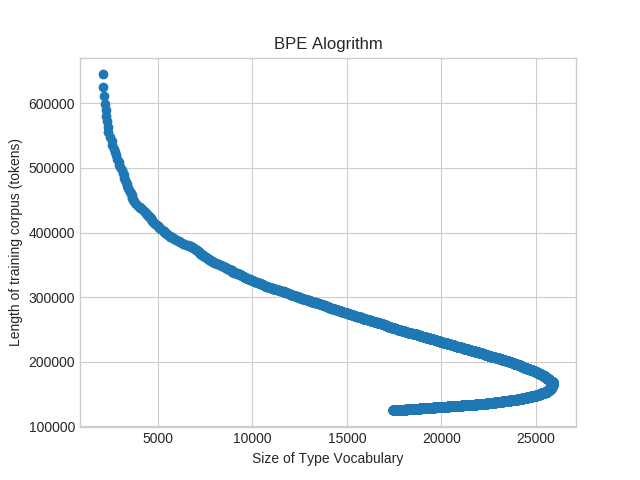
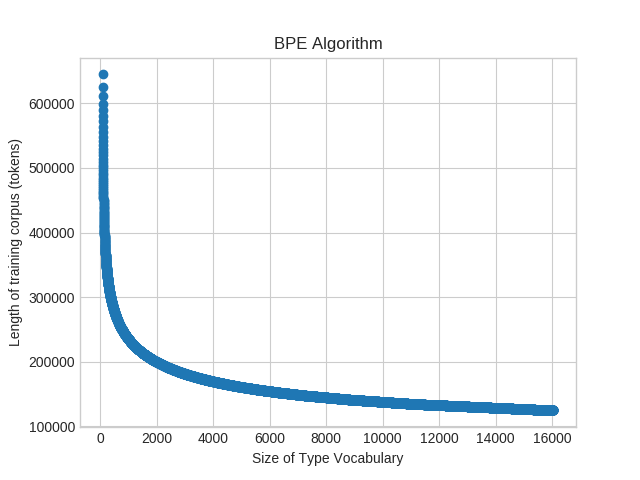
Corrected the types vocab length
- Output files updated

diff --git a/A5/byte_pair_encoding.py b/A5/byte_pair_encoding.py
@@ -6,6 +6,8 @@ from collections import Counter, defaultdict
 
 import matplotlib.pyplot as plt
 
+from pprint import pprint as pp
+
 plt.style.use('seaborn-whitegrid')
 
 SPACE_SYM = '<s>'
@@ -33,6 +35,7 @@ class BytePairEncoding:
 
         # Step 1: Append, to each word, a special <s> symbol marking the end of a word
         self.vocab, space_marked_sentences_list = self._add_word_space_symbols(sentences_list)
+        self.types_vocab = set()
     
 
     def _clean_sentences(self, sentences_list):
@@ -84,30 +87,35 @@ class BytePairEncoding:
     def _save_scatter_plot(self, descriptive_name, x, y):
 
         plt.scatter(x, y)
-        plt.title('BPE Alogrithm')
+        plt.title('BPE Algorithm')
         plt.xlabel('Size of Type Vocabulary')
         plt.ylabel('Length of training corpus (tokens)')
         plt.savefig(f'{descriptive_name}_bpe_scatterplot.png')
 
 
-    def _get_training_corpus_length(self):
-
+    def get_data_lengths(self):
+        type_vocab = set()
         corpus_length = 0
+
         for k, v in self.vocab.items():
             merged = k.split(" ")
+            type_vocab.update(merged)
             corpus_length += (len(merged) * v)
         
-        return corpus_length
+        self.types_vocab = self.types_vocab.union(type_vocab)
+        return len(self.types_vocab), corpus_length
 
 
     def _save_information(self, descriptive_name, x, y, num_iters):
+        xx, yy = self.get_data_lengths()
+
         with open(f"{descriptive_name}.out", 'w') as f:
             f.write(f'Number of Iterations Completed: {num_iters}\n')
-            f.write(f'Length of Types Vocab: {len(self.char_pairs)}\n')
+            f.write(f'Length of Types Vocab: {xx}\n')
             f.write(f'Frequency Sum of Types Vocab: {sum(self.char_pairs.values())}\n')
             f.write(f'Length of Training Vocab: {len(self.vocab)}\n')
             f.write(f'Frequency of Training Vocab: {sum(self.vocab.values())}\n')
-            f.write(f'Length of Training Data Under Types: {self._get_training_corpus_length()}\n')
+            f.write(f'Length of Training Data Under Types: {yy}\n')
         
         def remap_keys(mapping):
             return [{'key':k, 'value': v} for k, v in mapping.items()]
@@ -137,8 +145,9 @@ class BytePairEncoding:
             self.char_pairs = self._get_pair_counts()
             
             # Used to produce a scatter plot of the algorithm
-            x.append(len(self.char_pairs))
-            y.append(self._get_training_corpus_length())
+            xx, yy = self.get_data_lengths()
+            x.append(xx)
+            y.append(yy)
 
             # Indicates we are done with fitting.
             # No more merge rules can be applied here
@@ -148,13 +157,20 @@ class BytePairEncoding:
             top_pair_frequency = self.char_pairs[top_char_pair]
 
             # Track output
-            if i % 500: print(f"Current top pair frequency: {top_pair_frequency}")
+            if i % 1000: print(f"Current top pair frequency: {top_pair_frequency}")
 
             if top_pair_frequency == 1 and not is_frequency_one:
                 self._save_information('frequency_one', x, y, i)
                 is_frequency_one = True
 
             self.vocab = self._merge_vocab(top_char_pair)
+            
+            # print(f"Bigram to Merge: {top_char_pair}")
+            # pp(self.char_pairs)
+            # pp(self.vocab)
+            # print(self.get_data_lengths())
+            # print(self.types_vocab)
+            # print()
 
         self._save_information('frequency_zero', x, y, i)
 
